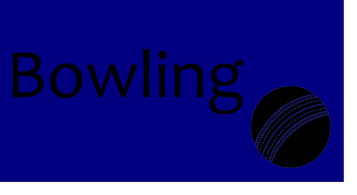
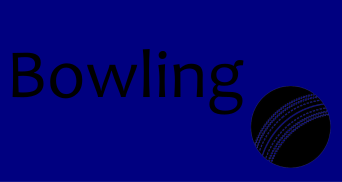
centering buttons and text

Changed region(s): [[0.0, 0.0, 1.0, 1.0]]

diff --git a/bowling.py b/bowling.py
@@ -12,11 +12,11 @@ restart_img = pygame.image.load("images/restart.png")
 pause_img = pygame.image.load("images/pause.png")
 resume_img = pygame.image.load("images/resume.png")
 
-# Button instances
-home_button = button.Button(250, 250, home_img, 1)
-resume_button = button.Button(375, 250, resume_img, 1)
-restart_button = button.Button(475, 250, restart_img, 1)
-pause_button = button.Button(720, 20, pause_img, 0.8)
+# Creating button instances
+home_button = button.Button(305, 310, home_img, 1)
+resume_button = button.Button(400, 310, resume_img, 1)
+restart_button = button.Button(495, 310, restart_img, 1)
+pause_button = button.Button(750, 50, pause_img, 0.8)
 
 
 def run_bowling_game(screen): # subroutine to run bowling mode
@@ -61,7 +61,8 @@ def run_bowling_game(screen): # subroutine to run bowling mode
     # subroutine to display text
     def draw_text(text, font, color, x, y):
         img = font.render(text, True, color)
-        screen.blit(img, (x, y))
+        rect = img.get_rect(center=(x, y)) # center at (x, y)
+        screen.blit(img, rect)
 
     running = True
     while running:
@@ -75,7 +76,7 @@ def run_bowling_game(screen): # subroutine to run bowling mode
             # stage 1 - set bounce
             if stage == 1:
                 if not disc_frozen:
-                    draw_text("Press SPACE to stop the disc to set bounce:", font_small, 'black', 45, 130)
+                    draw_text("Press SPACE to stop the disc to set bounce:", font_small, 'black', 400, 130)
                     disc_x += disc_speed # make the disc move along
                     if disc_x >= 760: # if disc hits right boundary
                         disc_x = 760
@@ -85,8 +86,8 @@ def run_bowling_game(screen): # subroutine to run bowling mode
                         disc_speed = random.randint(40,60) # reverse the disc direction with random speeds between 15 and 2
                     pygame.draw.circle(screen, "white", (disc_x, 400), 5) # drawing disc
                 else: # if disc frozen
-                    draw_text("Bounce position stored ", font_small, 'black', 210, 110)
-                    draw_text("Press ENTER to continue:", font_small, 'black', 195, 150)
+                    draw_text("Bounce position stored ", font_small, 'black', 400, 110)
+                    draw_text("Press ENTER to continue:", font_small, 'black', 400, 150)
                     pygame.draw.circle(screen, "white", (stored_x_position, 400), 5) # diplaying position of stored disc
 
             # stage 2 - setting speed
@@ -94,15 +95,15 @@ def run_bowling_game(screen): # subroutine to run bowling mode
                 if stage2_start_time is not None: 
                     elapsed = (pygame.time.get_ticks() - stage2_start_time) // 1000 # time passed
                     time_left = max(0, stage2_duration - elapsed) 
-                    draw_text("CLICK as many times as you can: ", font_small, 'black', 120, 120)
-                    draw_text(f"Clicks: {click_count}", font_big, 'blue', 280, 170) # displaying clicks
-                    draw_text(f"Time left: {time_left}", font_big, 'red', 260, 210) # displaying time left
+                    draw_text("CLICK as many times as you can: ", font_small, 'black', 400, 120)
+                    draw_text(f"Clicks: {click_count}", font_big, 'blue', 400, 170) # displaying clicks
+                    draw_text(f"Time left: {time_left}", font_big, 'red', 400, 210) # displaying time left
                     if elapsed >= stage2_duration:
                         ball_pos = [800, 50] # setting starting ball postion for stage 3
                         stage = 3
                 else: # time hasn't started
-                    draw_text("CLICK as many times as you can in 10 seconds", font_small, 'black', 20, 110)
-                    draw_text("Number of clicks will determine your speed", font_small, 'black', 50, 150)
+                    draw_text("CLICK as many times as you can in 10 seconds", font_small, 'black', 400, 110)
+                    draw_text("Number of clicks will determine your speed", font_small, 'black', 400, 150)
 
             # stage 3 - ball delivery
             elif stage == 3:
@@ -157,11 +158,11 @@ def run_bowling_game(screen): # subroutine to run bowling mode
             avg_speed = total_clicks / balls_bowled # calculating average speed
             avg_accuracy = (wickets_hit_count / balls_bowled * 100) # calculating average accuracy
 
-            draw_text("Ball bowled!", font_big, 'red', 260, 35)
-            draw_text(f"Wickets hit: {'YES' if ball_hit_wicket else 'NO'}", font_big, 'blue', 220, 75)
-            draw_text(f"Balls bowled: {balls_bowled}", font_small, 'black', 270, 120)
-            draw_text(f"Average speed: {avg_speed:.1f}", font_small, 'black', 235, 150)
-            draw_text(f"Average accuracy: {avg_accuracy:.1f}%", font_small, 'black', 205, 180)
+            draw_text("Ball bowled!", font_big, 'red', 400, 80)
+            draw_text(f"Wickets hit: {'YES' if ball_hit_wicket else 'NO'}", font_big, 'blue', 400, 120)
+            draw_text(f"Balls bowled: {balls_bowled}", font_small, 'black', 400, 180)
+            draw_text(f"Average speed: {avg_speed:.1f}", font_small, 'black', 400, 210)
+            draw_text(f"Average accuracy: {avg_accuracy:.1f}%", font_small, 'black', 400, 240)
 
             # Buttons
             if restart_button.draw(screen): # if game is restarted
@@ -198,7 +199,7 @@ def run_bowling_game(screen): # subroutine to run bowling mode
 
         # pause menu
         if paused: # if paused
-            draw_text("Paused", font_big, "black", 320, 130)
+            draw_text("Paused", font_big, "black", 400, 170)
             if resume_button.draw(screen): # if resume button pressed
                 pygame.time.delay(150)
                 paused = False

diff --git a/fielding.py b/fielding.py
@@ -14,10 +14,10 @@ restart_img = pygame.image.load("images/restart.png")
 pause_img = pygame.image.load("images/pause.png")
 
 # Creating button instances
-home_button = button.Button(250, 250, home_img, 1)
-resume_button = button.Button(375, 250, resume_img, 1)
-restart_button = button.Button(475, 250, restart_img, 1)
-pause_button = button.Button(720, 20, pause_img, 0.8)
+home_button = button.Button(305, 280, home_img, 1)
+resume_button = button.Button(400, 280, resume_img, 1)
+restart_button = button.Button(495, 280, restart_img, 1)
+pause_button = button.Button(750, 50, pause_img, 0.8)
 
 # ball class
 class Ball:
@@ -57,10 +57,11 @@ def run_fielding_game(screen):
     font_big = pygame.font.SysFont("arialblack", 40)
     font_small = pygame.font.SysFont("arialblack", 30)
 
-    # subroutine to draw text
-    def draw_text(text, font, text_col, x, y):
-        img = font.render(text, True, text_col)
-        screen.blit(img, (x, y))
+    # subroutine to display text
+    def draw_text(text, font, color, x, y):
+        img = font.render(text, True, color)
+        rect = img.get_rect(center=(x, y)) # center at (x, y)
+        screen.blit(img, rect)
 
     balls = []
     bird = Bird(y=100)
@@ -74,9 +75,9 @@ def run_fielding_game(screen):
 
         # gameplay
         if not game_started: # added a short explanation and press enter to start game
-            draw_text('Balls will fall from the sky', font_small, 'black', 190,110)
-            draw_text('CLICK on the balls and avoid the birds', font_small, 'black', 110,150)
-            draw_text('Press ENTER to start', font_small, 'black', 230,200)
+            draw_text('Balls will fall from the sky', font_small, 'black', 400,160)
+            draw_text('CLICK on the balls and avoid the birds', font_small, 'black', 400,200)
+            draw_text('Press ENTER to start', font_small, 'black', 400,240)
         elif not paused and not game_over:
             current_time = pygame.time.get_ticks()
             if current_time - last_ball_time > 1000:
@@ -98,7 +99,7 @@ def run_fielding_game(screen):
             bird.update(screen)
 
             # Draw score
-            draw_text(f"Score: {score}", font_big, 'black', 10, 10)
+            draw_text(f"Score: {score}", font_big, 'black', 100, 35)
 
             # Draw hearts
             for i in range(lives):
@@ -110,7 +111,7 @@ def run_fielding_game(screen):
 
         # paused menu
         elif paused:
-            draw_text("Paused", font_big, "black", 320, 130)
+            draw_text("Paused", font_big, "black", 400, 170)
             if resume_button.draw(screen):
                 paused = False
             if restart_button.draw(screen):
@@ -121,8 +122,8 @@ def run_fielding_game(screen):
 
         # game over screen
         elif game_over:
-            draw_text("Game Over!", font_big, "red", 275, 100)
-            draw_text(f"Final Score: {score}", font_big, "black", 250, 160)
+            draw_text("Game Over!", font_big, "red", 400, 100)
+            draw_text(f"Final Score: {score}", font_big, "black", 400, 160)
             if restart_button.draw(screen):
                 return run_fielding_game(screen)
             if home_button.draw(screen):

diff --git a/mainMenu.py b/mainMenu.py
@@ -25,15 +25,16 @@ fieldingSymbol_img = pygame.image.load("images/fieldingButton.png").convert_alph
 settingsSymbol_img = pygame.image.load('images/settingsButton.png').convert_alpha()
 
 # create button instances
-batting_button = button.Button(65, 87, battingSymbol_img, 0.95)
-bowling_button = button.Button(409, 87, bowlingSymbol_img, 0.95)
-fielding_button = button.Button(65, 272, fieldingSymbol_img, 0.95)
-settings_button = button.Button(409, 272, settingsSymbol_img, 0.95)
+batting_button = button.Button(229, 175, battingSymbol_img, 0.95)
+bowling_button = button.Button(571, 175, bowlingSymbol_img, 0.95)
+fielding_button = button.Button(229, 355, fieldingSymbol_img, 0.95)
+settings_button = button.Button(571, 355, settingsSymbol_img, 0.95)
 
 # subroutine to draw text on screen
-def draw_text(text, font, text_col, x, y):
-    img = font.render(text, True, text_col)
-    screen.blit(img, (x, y))
+def draw_text(text, font, color, x, y):
+    img = font.render(text, True, color)
+    rect = img.get_rect(center=(x, y)) # center at (x, y)
+    screen.blit(img, rect)
 
 # game loop
 running = True
@@ -43,8 +44,8 @@ while running:
     screen.fill((0,0,255))
 
     if mode == "menu":
-        draw_text("Main Menu", font, text_clr, 280, 0)
-        draw_text("Select an option:", font, text_clr, 210, 32)
+        draw_text("Main Menu", font, text_clr, 400, 25)
+        draw_text("Select an option:", font, text_clr, 400, 60)
         
         if batting_button.draw(screen):
             print("batting")

diff --git a/button.py b/button.py
@@ -7,8 +7,7 @@ class Button():
 		width = image.get_width()
 		height = image.get_height()
 		self.image = pygame.transform.scale(image, (int(width * scale), int(height * scale)))
-		self.rect = self.image.get_rect()
-		self.rect.topleft = (x, y)
+		self.rect = self.image.get_rect(center=(x, y))
 		self.clicked = False
 
 	def draw(self, surface):
